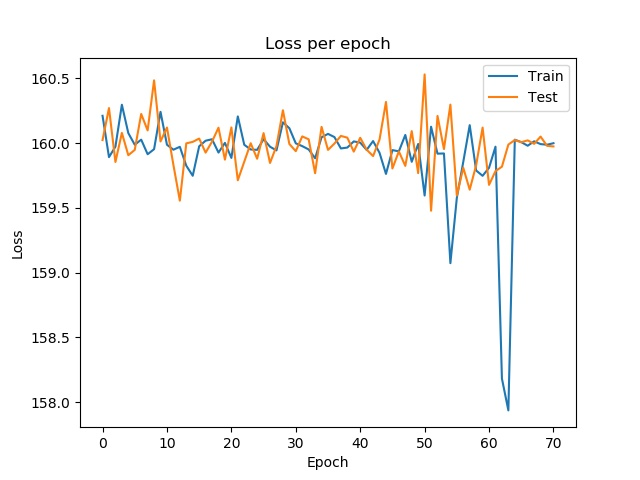
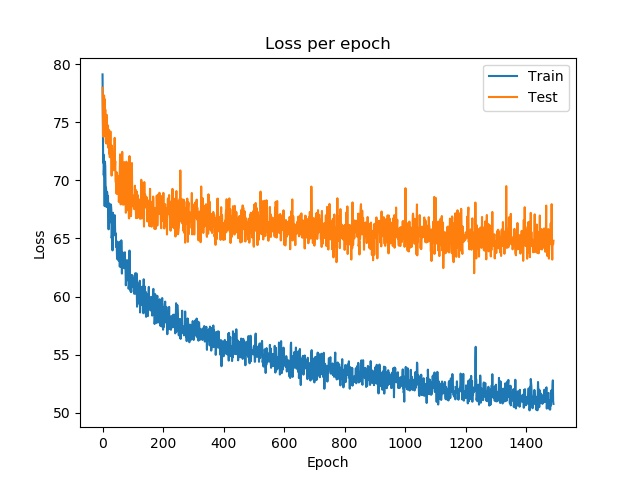
two lstms avgd

diff --git a/model_cifar.py b/model_cifar.py
@@ -30,30 +30,30 @@ class Model(tf.keras.Model):
         self.learning_rate = 0.001
         self.optimizer = tf.keras.optimizers.Adam(learning_rate=self.learning_rate)
 
-        # self.conv_1 = tf.keras.layers.Conv2D(32, 3, strides = (2,2), padding='SAME', activation='elu', kernel_initializer=tf.random_normal_initializer(stddev=0.1))
-        # self.conv_2 = tf.keras.layers.Conv2D(32, 3, strides = (1,1), activation='elu', kernel_initializer=tf.random_normal_initializer(stddev=0.1))
-        # self.pool_1 = tf.keras.layers.MaxPooling2D(pool_size=(2,2))
+        self.conv_1 = tf.keras.layers.Conv2D(32, 3, strides = (2,2), padding='SAME', activation='elu', kernel_initializer=tf.random_normal_initializer(stddev=0.1))
+        self.conv_2 = tf.keras.layers.Conv2D(32, 3, strides = (1,1), activation='elu', kernel_initializer=tf.random_normal_initializer(stddev=0.1))
+        self.pool_1 = tf.keras.layers.MaxPooling2D(pool_size=(2,2))
 
-        #self.normalize1 = tf.keras.layers.BatchNormalization()
+        self.normalize1 = tf.keras.layers.BatchNormalization()
 
-        # self.conv_3 = tf.keras.layers.Conv2D(64, 3, strides = (1,1), padding='SAME', activation='elu', kernel_initializer=tf.random_normal_initializer(stddev=0.1))
-        # self.conv_4 = tf.keras.layers.Conv2D(64, 3, strides = (1,1), activation='elu', kernel_initializer=tf.random_normal_initializer(stddev=0.1))
-        # self.pool_2 = tf.keras.layers.MaxPooling2D(pool_size=(2,2))
+        self.conv_3 = tf.keras.layers.Conv2D(64, 3, strides = (1,1), padding='SAME', activation='elu', kernel_initializer=tf.random_normal_initializer(stddev=0.1))
+        self.conv_4 = tf.keras.layers.Conv2D(64, 3, strides = (1,1), activation='elu', kernel_initializer=tf.random_normal_initializer(stddev=0.1))
+        self.pool_2 = tf.keras.layers.MaxPooling2D(pool_size=(2,2))
 
-        #self.embed = tf.keras.layers.Dense(128, activation='elu', kernel_initializer=tf.random_normal_initializer(stddev=0.1))
+        self.embed = tf.keras.layers.Dense(128, activation='elu', kernel_initializer=tf.random_normal_initializer(stddev=0.1))
 
-        #self.normalize2 = tf.keras.layers.BatchNormalization()
+        self.normalize2 = tf.keras.layers.BatchNormalization()
 
-        #self.conv_5 = tf.keras.layers.Conv2D(256, 3, strides = (1,1), padding='SAME', activation=tf.keras.layers.LeakyReLU(alpha=0.2), kernel_initializer=tf.random_normal_initializer(stddev=0.1))
-        #self.conv_6 = tf.keras.layers.Conv2D(256, 3, strides = (1,1), activation=tf.keras.layers.LeakyReLU(alpha=0.2), kernel_initializer=tf.random_normal_initializer(stddev=0.1))
-        #self.pool_3 = tf.keras.layers.MaxPooling2D(pool_size=(2,2))
+        self.conv_5 = tf.keras.layers.Conv2D(256, 3, strides = (1,1), padding='SAME', activation=tf.keras.layers.LeakyReLU(alpha=0.2), kernel_initializer=tf.random_normal_initializer(stddev=0.1))
+        self.conv_6 = tf.keras.layers.Conv2D(256, 3, strides = (1,1), activation=tf.keras.layers.LeakyReLU(alpha=0.2), kernel_initializer=tf.random_normal_initializer(stddev=0.1))
+        self.pool_3 = tf.keras.layers.MaxPooling2D(pool_size=(2,2))
 
-        #self.normalize3 = tf.keras.layers.BatchNormalization()
+        self.normalize3 = tf.keras.layers.BatchNormalization()
 
-        self.feats_model = create_feats_model("vgg")
+        # self.feats_model = create_feats_model("vgg")
 
         # self.lstm = tf.keras.layers.LSTM(256, return_sequences=True, return_state=True)
-        self.gru = tf.keras.layers.GRU(512, return_sequences=True, return_state=True)
+        self.gru = tf.keras.layers.GRU(256, return_sequences=True, return_state=True)
 
         #self.distance = tf.keras.layers.Dense(2)
 
@@ -73,24 +73,24 @@ class Model(tf.keras.Model):
 
         # print(examples[0])
 
-        # examples = self.conv_1(examples)
-        # examples = self.conv_2(examples)
-        # examples = self.normalize1(examples)
-        # examples = self.pool_1(examples)
+        examples = self.conv_1(examples)
+        examples = self.conv_2(examples)
+        examples = self.normalize1(examples)
+        examples = self.pool_1(examples)
 
-        # examples = self.conv_3(examples)
-        # examples = self.conv_4(examples)
-        #examples = self.normalize2(examples)
-        # examples = self.pool_2(examples)
+        examples = self.conv_3(examples)
+        examples = self.conv_4(examples)
+        examples = self.normalize2(examples)
+        examples = self.pool_2(examples)
 
-        #examples = self.conv_5(examples)
-        #examples = self.conv_6(examples)
-        #examples = self.normalize3(examples)
-        #examples = self.pool_3(examples)
-        #examples = tf.reshape(examples, (self.example_batch_size * self.num_examples, -1))
-        #examples = self.embed(examples)
+        # examples = self.conv_5(examples)
+        # examples = self.conv_6(examples)
+        # examples = self.normalize3(examples)
+        # examples = self.pool_3(examples)
+        # examples = tf.reshape(examples, (self.example_batch_size * self.num_examples, -1))
+        # examples = self.embed(examples)
 
-        examples = self.feats_model(examples)
+        # examples = self.feats_model(examples)
 
         examples = tf.reshape(examples, (self.example_batch_size, self.num_examples, -1))
 
@@ -98,6 +98,9 @@ class Model(tf.keras.Model):
         # print(examples.shape)
 
         _, merged_examples = self.gru(examples, initial_state=None)
+        _, merged_examples_2 = self.gru(tf.reverse(examples, [1]), initial_state=None)
+
+        merged_examples = tf.reduce_mean(tf.stack([merged_examples, merged_examples_2]), axis=0)
 
         # print("merged_examples")
         # print(merged_examples.shape)
@@ -111,24 +114,24 @@ class Model(tf.keras.Model):
 
         # print(inputs[0])
 
-        # inputs = self.conv_1(inputs)
-        # inputs = self.conv_2(inputs)
-        #inputs = self.normalize1(inputs)
-        # inputs = self.pool_1(inputs)
+        inputs = self.conv_1(inputs)
+        inputs = self.conv_2(inputs)
+        # inputs = self.normalize1(inputs)
+        inputs = self.pool_1(inputs)
 
-        # inputs = self.conv_3(inputs)
-        # inputs = self.conv_4(inputs)
-        #inputs = self.normalize2(examples)
-        # inputs = self.pool_2(inputs)
+        inputs = self.conv_3(inputs)
+        inputs = self.conv_4(inputs)
+        # inputs = self.normalize2(inputs)
+        inputs = self.pool_2(inputs)
 
-        #inputs = self.conv_5(inputs)
-        #inputs = self.conv_6(inputs)
-        #inputs = self.normalize3(examples)
-        #inputs = self.pool_3(inputs)
-        #inputs = tf.reshape(inputs, (self.example_batch_size * self.batch_size, -1))
-        #inputs = self.embed(inputs)
+        # inputs = self.conv_5(inputs)
+        # inputs = self.conv_6(inputs)
+        # inputs = self.normalize3(inputs)
+        # inputs = self.pool_3(inputs)
+        # inputs = tf.reshape(inputs, (self.example_batch_size * self.batch_size, -1))
+        # inputs = self.embed(inputs)
 
-        inputs = self.feats_model(inputs)
+        # inputs = self.feats_model(inputs)
 
         inputs = tf.reshape(inputs, (self.example_batch_size, self.batch_size, -1))
 
@@ -323,7 +326,7 @@ def main():
     accuracies = []
     test_accuracies = []
     test_losses = []
-    for epoch in range(200):
+    for epoch in range(1500):
         start = datetime.now()
         loss, acc = train(model, examples_train)
         losses.append(loss)

diff --git a/model_cifar_transformer.py b/model_cifar_transformer.py
@@ -118,9 +118,9 @@ class Model(tf.keras.Model):
 
             Z.append(tf.matmul(tf.nn.softmax(tf.matmul(Q,tf.transpose(K))/dk), V))
 
-        # merged_examples = tf.reduce_mean(tf.convert_to_tensor(Z),axis=1)
-        num = np.random.randint(5)
-        merged_examples = tf.convert_to_tensor(Z)[:,num,:]
+        merged_examples = tf.reduce_mean(tf.convert_to_tensor(Z),axis=1)
+        # num = np.random.randint(5)
+        # merged_examples = tf.convert_to_tensor(Z)[:,num,:]
         # print(merged_examples.shape)
 
         #merged_examples = tf.reshape(examples, (self.example_batch_size, -1))
